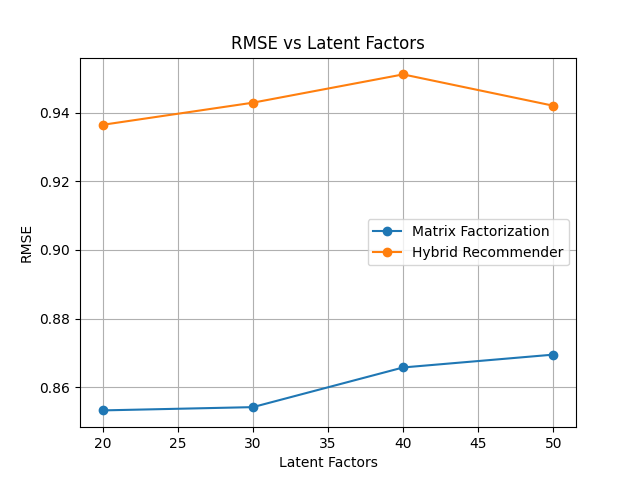
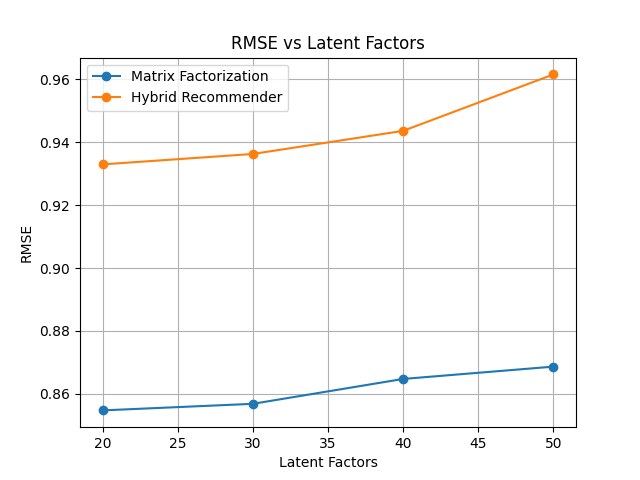
Add final pipeline and output results, update RMSE comparison plot

diff --git a/final_pipeline.py b/final_pipeline.py
@@ -1,0 +1,171 @@
+# final_pipeline.py
+import os
+import numpy as np
+import pandas as pd
+import torch
+
+# Import your project modules (they must be in same folder / PYTHONPATH)
+from data_preprocessing import load_data
+from cf_matrix_factorization import MatrixFactorization
+from run_experiments import train_hybrid_model
+
+# -------------------------
+# Config
+# -------------------------
+mf_K = 30            # latent factors for MF
+mf_alpha = 0.01
+mf_beta = 0.01
+mf_iters = 10        # iterations for MF training (lower for quick tests)
+
+hybrid_embed_dim = 30
+hybrid_epochs = 5    # reduce for quick tests
+
+top_k = 10
+
+data_dir = "data"
+sentiment_path = os.path.join(data_dir, "sentiment_scores.csv")
+u_item_path = os.path.join(data_dir, "u.item")
+
+output_dir = "outputs"
+os.makedirs(output_dir, exist_ok=True)
+
+device = torch.device("cpu")
+# -------------------------
+# Load preprocessed merged data
+# data_preprocessing.load_data returns merged dataset with columns:
+#   user_id, item_id, rating, timestamp, genre cols, sentiment, user, item (encoded)
+# -------------------------
+print("Loading and preprocessing data...")
+merged, user_enc, item_enc = load_data()  # uses data/u.data, data/u.item, data/sentiment_scores.csv
+# merged: pandas DataFrame; has columns 'user' (encoded), 'item' (encoded), 'rating', 'item_id' original, etc.
+
+# we need number of users and items (encoded)
+num_users = merged['user'].nunique()
+num_items = merged['item'].nunique()
+print(f" - users: {num_users}, items: {num_items}, ratings rows: {len(merged)}")
+
+# -------------------------
+# MATRIX FACTORIZATION
+# -------------------------
+print("\n==> Training Matrix Factorization (MF) ...")
+# Build rating matrix R (users x items), fill zeros where no rating
+R = np.zeros((num_users, num_items), dtype=np.float32)
+for row in merged.itertuples(index=False):
+    # merged rows: include 'user' and 'item' and 'rating'
+    R[row.user, row.item] = row.rating
+
+mf = MatrixFactorization(R, K=mf_K, alpha=mf_alpha, beta=mf_beta, iterations=mf_iters)
+mf.train()
+mf_pred_full = mf.full_matrix()  # shape: (num_users, num_items)
+
+# Compute per-item average predicted rating (global)
+mf_item_avg = np.mean(mf_pred_full, axis=0)  # length num_items
+# Build dataframe: encoded_item -> avg_pred
+mf_item_df = pd.DataFrame({
+    'item_encoded': np.arange(num_items),
+    'mf_pred_avg': mf_item_avg
+})
+# Map back to original item_id (u.item movie id)
+# merged has mapping from encoded item to original item_id; get unique mapping
+enc_to_orig = merged[['item', 'item_id']].drop_duplicates().set_index('item')['item_id'].to_dict()
+mf_item_df['item_id'] = mf_item_df['item_encoded'].map(enc_to_orig)
+
+# -------------------------
+# HYBRID RECOMMENDER
+# -------------------------
+print("\n==> Training Hybrid Recommender ...")
+hybrid_model = train_hybrid_model(merged, embed_dim=hybrid_embed_dim, epochs=hybrid_epochs)
+hybrid_model.eval()
+
+# Prepare tensors for every rating row in merged dataset (we'll average predictions per item)
+with torch.no_grad():
+    users_tensor = torch.LongTensor(merged['user'].values).to(device)
+    items_tensor = torch.LongTensor(merged['item'].values).to(device)
+    genres_tensor = torch.FloatTensor(merged.iloc[:, 5:24].values).to(device)  # data_preprocessing used cols 5..23 for genres
+    sentiments_tensor = torch.FloatTensor(merged['sentiment'].values).to(device)
+
+    preds = hybrid_model(users_tensor, items_tensor, genres_tensor, sentiments_tensor).cpu().numpy() * 5.0
+    # note: training scaled rating by /5 (in earlier code), so multiply back
+
+# Merge preds with item encoded IDs and compute per-item mean predicted rating
+hybrid_pred_df = pd.DataFrame({
+    'item': merged['item'].values,
+    'item_id': merged['item_id'].values,
+    'pred': preds
+})
+hybrid_item_avg = hybrid_pred_df.groupby('item').pred.mean().reset_index().rename(columns={'pred': 'hybrid_pred_avg'})
+# map encoded->orig id
+hybrid_item_avg['item_id'] = hybrid_item_avg['item'].map(enc_to_orig)
+
+# -------------------------
+# Create combined table with titles and sentiment
+# -------------------------
+# Load u.item to get titles
+uitem = pd.read_csv(u_item_path, sep='|', header=None, encoding='latin-1')
+uitem = uitem[[0, 1]]  # item_id, title
+uitem.columns = ['item_id', 'title']
+
+# sentiment file
+if os.path.exists(sentiment_path):
+    sentiment_df = pd.read_csv(sentiment_path)
+else:
+    print("Warning: sentiment_scores.csv not found. Creating placeholder with neutral sentiment.")
+    sentiment_df = pd.DataFrame({'item_id': uitem['item_id'], 'sentiment': 0.5})
+
+# Assemble MF top scores
+mf_item_df = mf_item_df.merge(uitem, on='item_id', how='left')
+mf_item_df = mf_item_df.merge(sentiment_df, on='item_id', how='left')
+# Assemble Hybrid top scores
+hybrid_item_avg = hybrid_item_avg.merge(uitem, on='item_id', how='left')
+hybrid_item_avg = hybrid_item_avg.merge(sentiment_df, on='item_id', how='left')
+
+# Some items may be missing sentiment -> fill neutral
+mf_item_df['sentiment'] = mf_item_df['sentiment'].fillna(0.5)
+hybrid_item_avg['sentiment'] = hybrid_item_avg['sentiment'].fillna(0.5)
+
+# -------------------------
+# Top-K extraction
+# -------------------------
+mf_top = mf_item_df.sort_values('mf_pred_avg', ascending=False).head(top_k)[['item_id', 'title', 'mf_pred_avg', 'sentiment']]
+hybrid_top = hybrid_item_avg.sort_values('hybrid_pred_avg', ascending=False).head(top_k)[['item_id', 'title', 'hybrid_pred_avg', 'sentiment']]
+
+# Save top lists
+mf_top.to_csv(os.path.join(output_dir, f"mf_top{top_k}.csv"), index=False)
+hybrid_top.to_csv(os.path.join(output_dir, f"hybrid_top{top_k}.csv"), index=False)
+
+print(f"\nSaved top-{top_k} lists to {output_dir}/")
+
+# -------------------------
+# Comparison
+# -------------------------
+mf_set = set(mf_top['item_id'].values)
+hybrid_set = set(hybrid_top['item_id'].values)
+overlap = mf_set & hybrid_set
+only_mf = mf_set - hybrid_set
+only_hybrid = hybrid_set - mf_set
+
+def avg_sent_for(item_ids):
+    if not item_ids:
+        return None
+    s = sentiment_df[sentiment_df['item_id'].isin(item_ids)]['sentiment']
+    return round(s.mean(), 3) if len(s) > 0 else None
+
+print("\n==== TOP-10 COMPARISON ====")
+print(f"Overlap ({len(overlap)} items): {overlap}")
+print("Average sentiment of overlap:", avg_sent_for(overlap))
+print()
+print(f"Only in MF ({len(only_mf)} items): {only_mf}")
+print("Average sentiment only in MF:", avg_sent_for(only_mf))
+print()
+print(f"Only in Hybrid ({len(only_hybrid)} items): {only_hybrid}")
+print("Average sentiment only in Hybrid:", avg_sent_for(only_hybrid))
+print("\nDetailed top-10 files saved; open the CSVs for titles + scores + sentiment.")
+
+# Also print readable versions
+print("\nMF Top-10:")
+print(mf_top.to_string(index=False))
+print("\nHybrid Top-10:")
+print(hybrid_top.to_string(index=False))
+
+# Done
+print("\nAll finished.")
